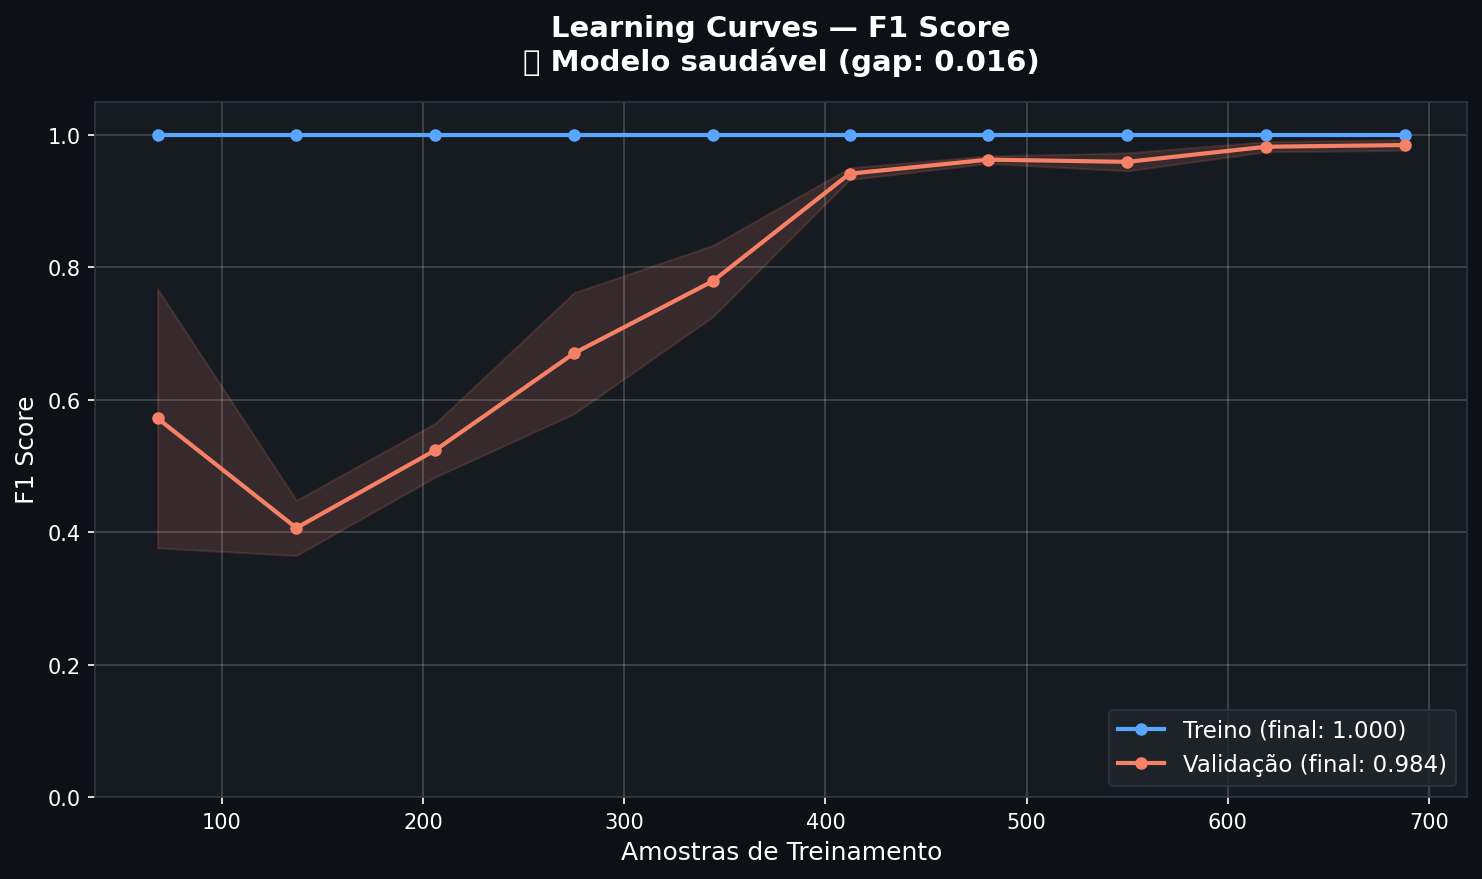
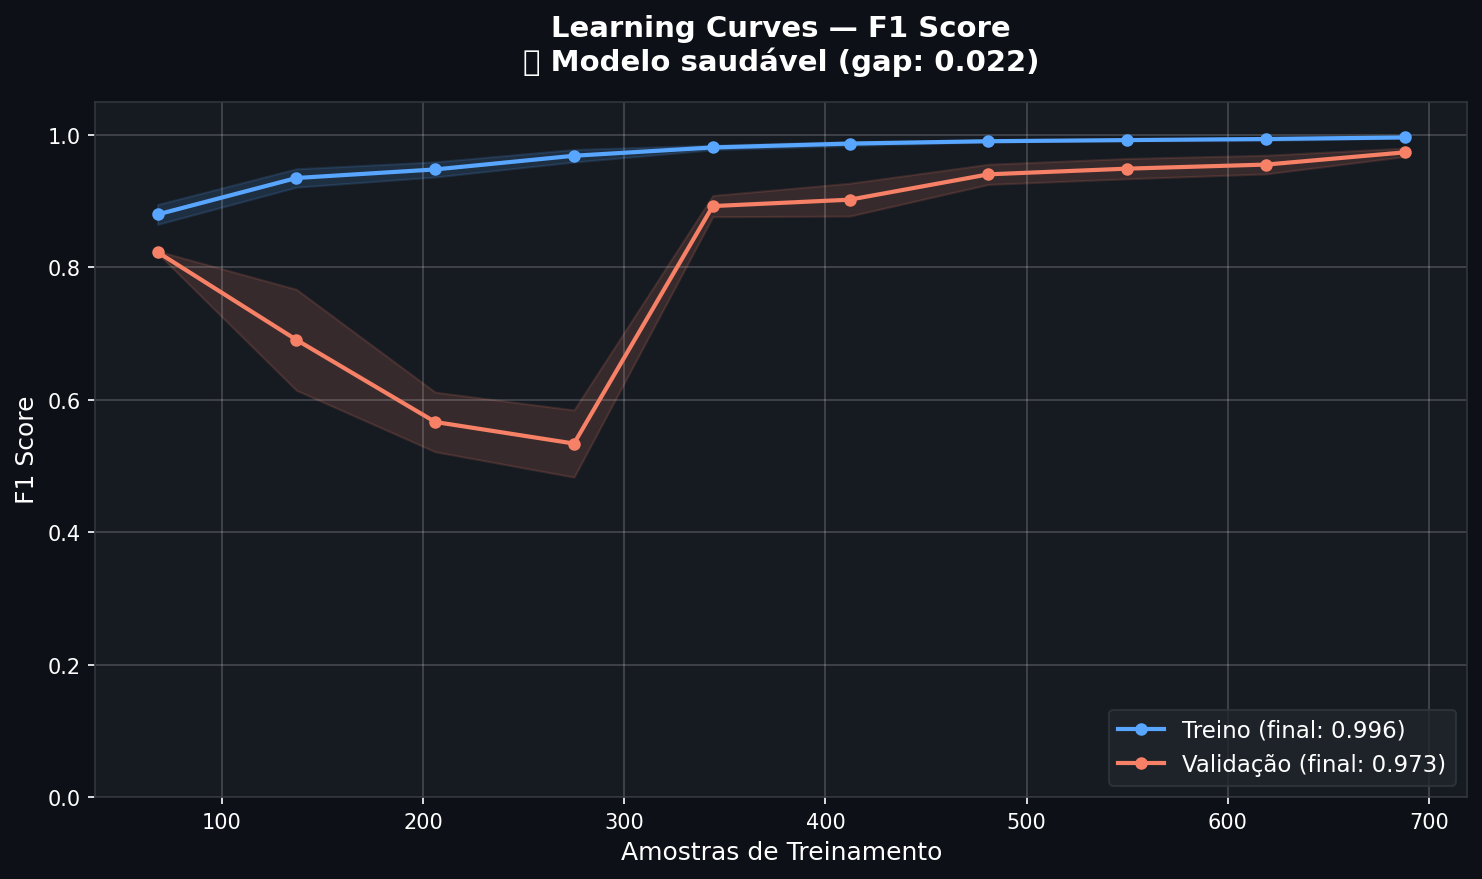
adiciona cross validation

Changed region(s): [[0.0931, 0.1229, 0.9622, 0.6451], [0.807, 0.7986, 0.9933, 0.8908], [0.6518, 0.0614, 0.7139, 0.0922]]

diff --git a/app/ml/train.py b/app/ml/train.py
@@ -78,6 +78,16 @@ def train_model(
     logger.info(f"Scale pos weight: {scale_pos_weight:.2f} (neg={n_negative}, pos={n_positive})")
 
     base_model = XGBClassifier(
+        # Regularização para evitar overfitting (train score = 1.0 sem regularização)
+        max_depth=4,              # Limitar profundidade (padrão: 6)
+        min_child_weight=5,       # Mínimo de amostras por folha
+        subsample=0.8,            # Usar 80% das amostras por árvore
+        colsample_bytree=0.8,     # Usar 80% das features por árvore
+        reg_alpha=0.1,            # Regularização L1
+        reg_lambda=1.0,           # Regularização L2
+        learning_rate=0.1,        # Taxa de aprendizado
+        n_estimators=200,         # Mais árvores com learning_rate menor
+        # Balanceamento e geral
         scale_pos_weight=scale_pos_weight,
         random_state=RANDOM_STATE,
         eval_metric="logloss",
